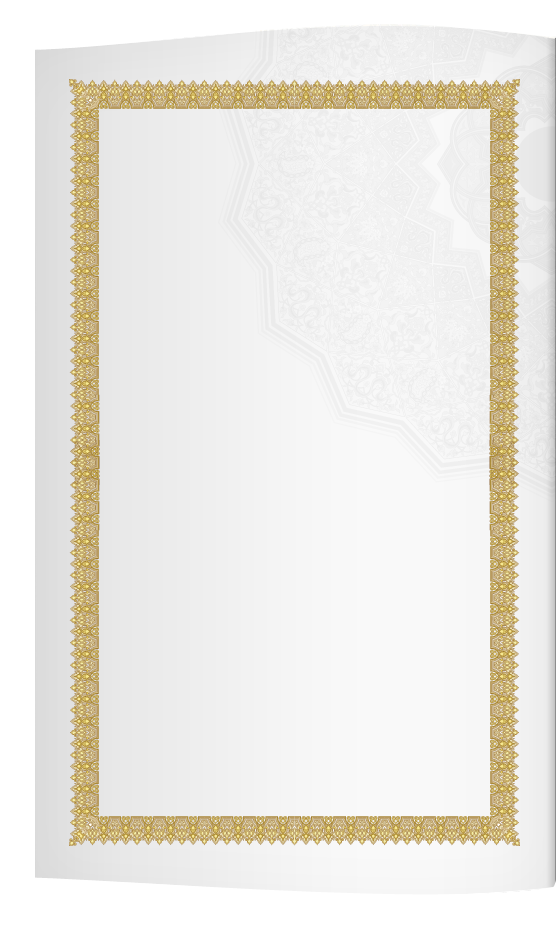
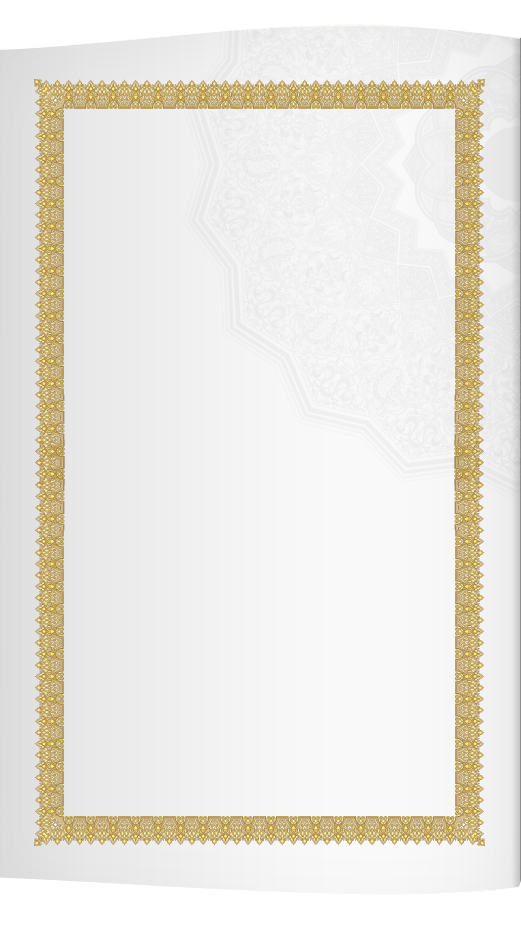
re-work on the book and pages. fixed the page size with hard cover size. so on mouse over on the stack effect, wont trigger the curve effect of the page.

Changed region(s): [[0.0, 0.0312, 0.952, 0.9688]]

diff --git a/upload/css/less/book-menu.less b/upload/css/less/book-menu.less
@@ -7,30 +7,28 @@
 	z-index: 1000;
 	position: absolute;
 	top: -(@bookHeight - 100);
-	left: -10px;
-	width: 19px;
-	overflow: hidden;
-
-	&:hover {
-		left: -63px;
-		width: 73px;
-	}
-	
-
-	-webkit-transition-duration: 0.5s;
-    -moz-transition-duration: 0.5s;
-    -o-transition-duration: 0.5s;
-    transition-duration: 0.5s;
+	left: -97px;
+	width: 73px;
 
 	.item {
 		display: block;
-		width: 73px;
+	  	position: relative;
+		overflow: hidden;
+    	left: 53px;
+    	width: 19px;
 		height: 73px;
 		background-repeat: no-repeat;
 		background-image: url("@{img}/book/ui/menu-item-bg.png");
+    
+	    -webkit-transition-duration: 0.5s;
+	    -moz-transition-duration: 0.5s;
+	    -o-transition-duration: 0.5s;
+	    transition-duration: 0.5s;
 		
 		&:hover {
 			background-image: url("@{img}/book/ui/menu-item-bg-hover.png");
+    		width: 73px;
+    		left: 0;
 		}
 
 		i {

diff --git a/upload/myTemp.js b/upload/myTemp.js
@@ -53,20 +53,19 @@ function stackEffect (page)
 {
 	var totalPages = $('.book').turn('pages'),
 	pagesLeft = totalPages - page,
-	maxWidth = 22,
-	maxLeftMargin = 35;
+	maxWidth = 22;
 	
 	// if pages left is greater then the max width, then use maxWidth, else use pages left as width of the stack effect
 	if (pagesLeft > maxWidth)
 	{
 		$('.stack.left').width(maxWidth);
 		// stack left width needs margin-left to adjust according to the set width
-		$('.stack.left').css('margin-left', maxLeftMargin - maxWidth);
+		$('.stack.left').css('margin-left', -maxWidth);
 	}
 	else
 	{
 		$('.stack.left').width(pagesLeft);
-		$('.stack.left').css('margin-left', maxLeftMargin - pagesLeft);
+		$('.stack.left').css('margin-left', -pagesLeft);
 	}
 	
 	// if current page is greater then max width, then use max width, else use current page number as width of the right stack effect	

diff --git a/upload/index.html b/upload/index.html
@@ -74,9 +74,9 @@
 		<div class="book">
 		
 			<!-- -->
-			<div class="hard front"></div>
+			<div class="hard front own-size"></div>
 			<!-- -->
-			<div class="hard right"></div>
+			<div class="hard right own-size"></div>
 			<!-- -->
 			
 			<!----------------- ------------------->
@@ -1250,9 +1250,9 @@
 			
 			<!------------------           -------------->
 			
-			<div class="hard left fixed"></div>
+			<div class="hard left fixed own-size"></div>
 			<!--  -- >
-			<div class="hard back"></div>
+			<div class="hard back own-size"></div>
 			<!--  -->
 		</div> <!-- /.book -->
 		

diff --git a/upload/css/less/book-page.less b/upload/css/less/book-page.less
@@ -8,7 +8,7 @@
 	.page {
 		.header, .content, .footer {
 			position: relative;
-			left: -40px;
+			left: -8px;
 		}
 	}
 } // end .page-wrapper.right
@@ -23,7 +23,7 @@
 		.title {
 
 			float: left;
-			margin-left: 70px;
+			margin-left: 35px;
 		
 			.name {
 				color: @linkColor;
@@ -76,9 +76,9 @@
 	
 		clear: both;
 		margin-top: 115px;
-		margin-left: 115px;
-		margin-right: 75px;
-		padding-right: 10px;
+		margin-left: 80px;
+		margin-right: 70px;
+		padding-right: 15px;
 	
 		height: 700px;
 		overflow: auto;

diff --git a/upload/css/less/book.less b/upload/css/less/book.less
@@ -39,7 +39,7 @@
 		}
 						
 		.page {
-
+			
 			&.odd {
 				background-image:url("@{img}/book/pl.png");
 			}
@@ -50,6 +50,8 @@
 		} // end .page
 		
 		.hard {
+			width: @hardWidth;
+			height: @bookHeight;
 			
 			&.front {
 				background-image:url("@{img}/book/hcf.png");

diff --git a/upload/css/less/book-stack-effect.less b/upload/css/less/book-stack-effect.less
@@ -9,10 +9,10 @@
 	width: 22px;
 	position: absolute;
 	margin-top: -(@bookHeight - 50);
-	margin-left: 13px;
+	margin-left: -22px;
 	z-index:999;
 
 	&.right {
-		margin-left: (@bookWidth - 36);
+		margin-left: (@bookWidth - 1);
 	}				
 } // end .stack

diff --git a/upload/css/less/variables.less b/upload/css/less/variables.less
@@ -10,7 +10,8 @@
 @img: 					"./../../img";
 
 // Book settings
-@bookWidth: 			1112px;
+@hardWidth: 			556px;
+@bookWidth: 			1042px; 
 @bookHeight: 			928px;
 
 // Grays

diff --git a/upload/js/turn4/turn.js b/upload/js/turn4/turn.js
@@ -98,7 +98,7 @@ var has3d,
 
     // Size of the active zone of each corner
 
-    cornerSize: 250 // [MODIFED]
+    cornerSize: 100 // [MODIFED]
 
   },
 
